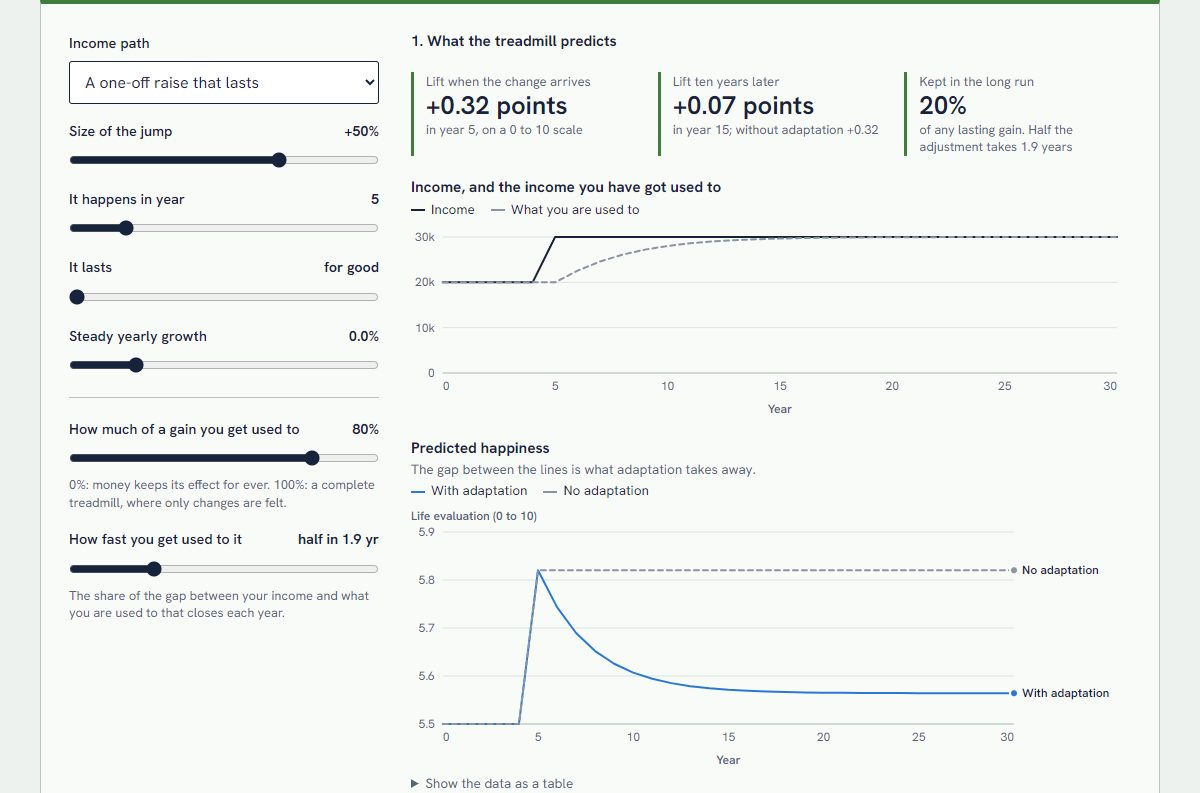
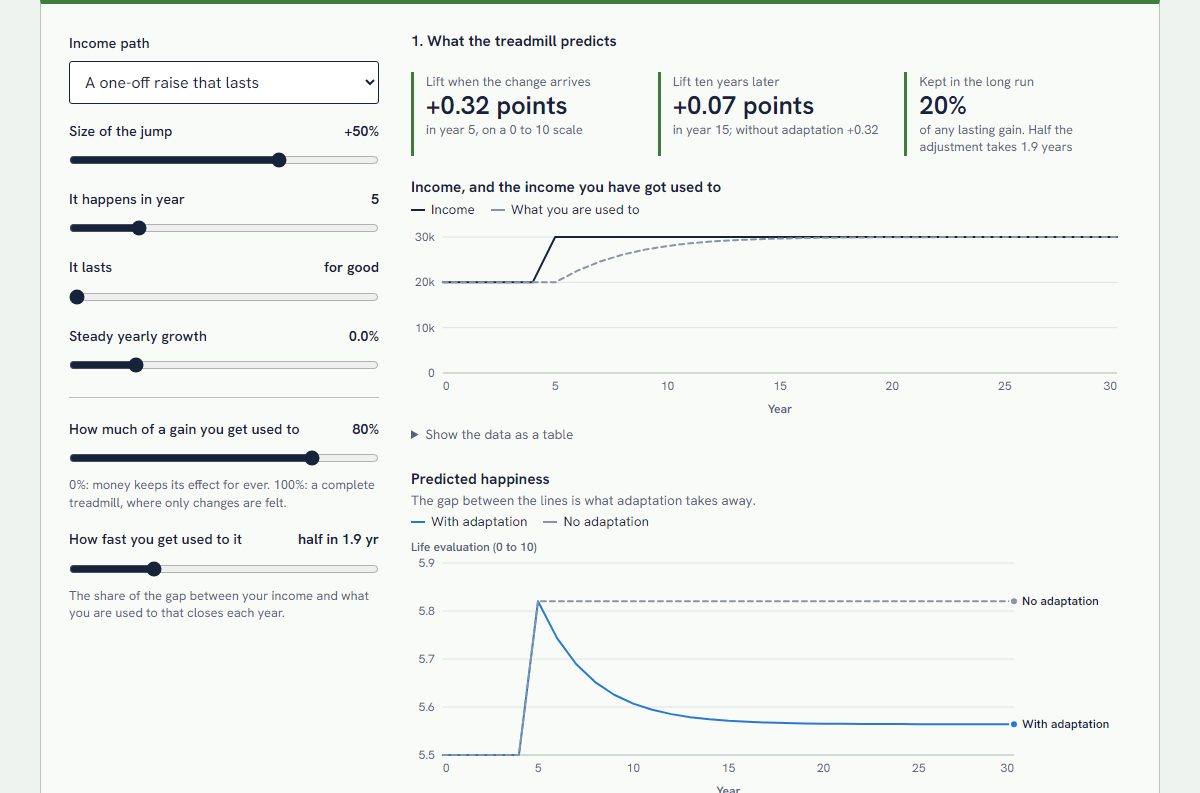
Review project 8: start at 2010-12, fix the half-life, update the finding

diff --git a/365projects/8/index.html b/365projects/8/index.html
@@ -4,7 +4,7 @@
   <meta charset="utf-8">
   <meta name="viewport" content="width=device-width, initial-scale=1">
   <title>Hedonic Treadmill Simulator · 365 projects</title>
-  <meta name="description" content="Set an income path and a rate of adaptation, see what the hedonic treadmill predicts for happiness over time, and test it against fifteen years of survey data from 145 countries.">
+  <meta name="description" content="Set an income path and a rate of adaptation, see what the hedonic treadmill predicts for happiness over time, and test it against survey data from 146 countries for 2010 to 2025.">
   <link rel="preload" href="../../assets/fonts/literata.woff2" as="font" type="font/woff2" crossorigin>
   <link rel="preload" href="../../assets/fonts/hanken-grotesk.woff2" as="font" type="font/woff2" crossorigin>
   <link rel="icon" href="../../assets/favicon.svg" type="image/svg+xml">
@@ -27,13 +27,13 @@
 
     <section class="p-sec finding">
       <h2>One finding</h2>
-      <p>Across 138 countries, those whose income per person doubled between 2009-11 and 2023-25 gained about one point more on the 0 to 10 ladder than those whose income stood still (1.04, plus or minus 0.30). That is almost twice the gap between rich and poor countries at a single moment (0.55 per doubling). At the level of whole countries this panel shows no treadmill, although India, Ireland and the United States each got richer and less satisfied.</p>
+      <p>Across 139 countries, those whose income per person doubled between 2010-12 and 2023-25 gained about one point more on the 0 to 10 ladder than those whose income stood still (1.04, plus or minus 0.31). That is almost twice the gap between rich and poor countries at a single moment (0.55 per doubling). At the level of whole countries this panel shows no treadmill, although India and the United States each got richer and less satisfied.</p>
     </section>
 
     <section class="p-sec">
       <h2>The idea</h2>
       <p>In 1971 Philip Brickman and Donald Campbell proposed that people judge their circumstances against what they are used to, so that any improvement soon becomes the new baseline and stops giving pleasure. They called it the <strong>hedonic treadmill</strong>: you have to keep moving to stay where you are. A later study by Brickman and colleagues, comparing lottery winners with people who had been paralysed in accidents, became the standard illustration.</p>
-      <p>Richard Easterlin gave the idea its economic edge in 1974. Within a country, richer people report being happier. Yet he found that as whole countries grew richer over decades, average happiness hardly moved. Adaptation is one explanation; another is that people care about their income relative to those around them, which growth cannot improve for everyone at once.</p>
+      <p>Richard Easterlin gave the idea its economic edge in 1974. Within a country, richer people report being happier. Yet he found that in the United States average happiness did not trend upward between 1946 and 1970 although incomes grew, and later studies reported the same of other rich countries. Adaptation is one explanation; another is that people care about their income relative to those around them, which growth cannot improve for everyone at once.</p>
       <p>The stakes are large. If adaptation to income is complete, economic growth does not make a rich society any happier, and policy should aim at things people do not get used to. If it is partial or absent, growth still matters. Betsey Stevenson and Justin Wolfers argued in 2008 that the paradox disappears with better data. The disagreement is empirical, which is why this page puts a model and the data side by side.</p>
     </section>
 
@@ -46,13 +46,13 @@
       <p class="eq"><var>H</var><sub><var>t</var></sub> = <var>H</var><sub>0</sub> + <var>b</var> · [ (<var>y</var><sub><var>t</var></sub> − <var>y</var><sub>0</sub>) − <var>k</var> · (<var>r</var><sub><var>t</var></sub> − <var>r</var><sub>0</sub>) ]</p>
       <p>The two sliders are <var>k</var> and <var>α</var>. With <var>k</var> = 0 the reference level does not matter and a raise keeps its full effect. With <var>k</var> = 1 only the gap between income and the reference level counts, so a one-off raise of size <var>Δ</var> (in logs) gives a lift that decays to nothing:</p>
       <p class="eq">lift after <var>n</var> years = <var>b</var> · <var>Δ</var> · [ 1 − <var>k</var> · (1 − (1 − <var>α</var>)<sup><var>n</var></sup>) ]</p>
-      <p>The long-run share kept is 1 − <var>k</var>, and half of the adjustment has happened after ln(0.5) / ln(1 − <var>α</var>) years. Under steady growth of <var>g</var> a year with <var>k</var> = 1, happiness settles at a constant <var>b</var> · <var>g</var> / <var>α</var> above its starting level and stays there only as long as growth continues. That is the treadmill.</p>
+      <p>The long-run share kept is 1 − <var>k</var>, and half of the adjustment has happened after ln(0.5) / ln(1 − <var>α</var>) years (with <var>α</var> = 1 all of it happens within a year). Under steady growth of <var>g</var> a year with <var>k</var> = 1, happiness settles at a constant <var>b</var> · <var>g</var> / <var>α</var> above its starting level and stays there only as long as growth continues. That is the treadmill.</p>
       <h3>Where <var>b</var> comes from</h3>
       <p>The effect of income before any adaptation is set from the data: across 144 countries in 2023-25, a doubling of income per person goes with 0.55 more points of life evaluation (<var>b</var> = 0.79 per unit of log income). Using the gap between rich and poor countries as the long-run effect of income is an assumption, not a finding.</p>
       <h3>Testing a country</h3>
-      <p>For the chosen country the model is given its actual GDP per person for each survey period and predicts life evaluation with your settings. The starting level <var>H</var><sub>0</sub> is set so the prediction is right on average, and the page reports the typical miss (root mean squared error). "Find the best-fitting settings" tries 420 combinations of <var>k</var> and <var>α</var> and picks the one with the smallest miss. It also reports what share of all the combinations come within a tenth of the best, because a best fit that hundreds of other settings nearly match tells you very little.</p>
+      <p>A survey period is three years of polling, labelled on the charts by its last year, and income is averaged over the same three years. For the chosen country the model is given its actual GDP per person for each survey period from 2010-12 on and predicts life evaluation with your settings. The starting level <var>H</var><sub>0</sub> is set so the prediction is right on average, and the page reports the typical miss (root mean squared error). "Find the best-fitting settings" tries 420 combinations of <var>k</var> and <var>α</var> and picks the one with the smallest miss. It also reports what share of all the combinations come within a tenth of the best, because a best fit that hundreds of other settings nearly match tells you very little.</p>
       <h3>Testing all countries</h3>
-      <p>For every country observed at both ends of the period, the last chart plots the change in life evaluation against the change in income, measured in doublings. A complete treadmill at national level predicts a flat line: growing faster should not help. The fitted slope is ordinary least squares, with a 95% interval of 1.96 standard errors.</p>
+      <p>For every country observed at both ends of the period, the last chart plots the change in life evaluation against the change in income, measured in doublings. A complete treadmill at national level predicts a flat line: growing faster should not help. In the model above that holds exactly when each country was already growing at the same pace before the period began. If growth only started then, the predicted slope rises as adaptation gets slower, up to 0.55 points per doubling with no adaptation at all. The fitted slope is ordinary least squares, with a 95% interval of 1.96 standard errors.</p>
     </section>
 
     <section class="p-sec">
@@ -60,9 +60,9 @@
       <ul>
         <li><strong>Whether individuals adapt.</strong> Adaptation is something that happens to a person. This data is national averages, which can rise or fall for reasons that have nothing to do with anyone getting used to anything. Testing the idea properly needs the same people followed for years, and those panels are not openly available.</li>
         <li><strong>Why happiness fails to rise when it does.</strong> Rising expectations, comparison with neighbours and a plain absence of any effect all draw the same curve here. The model cannot separate them.</li>
-        <li><strong>The adaptation rate of any country.</strong> Fourteen overlapping three-year averages, each uncertain by about a tenth of a point, cannot pin down two parameters. For many countries a flat line fits as well as any setting, and the page says so when that happens.</li>
+        <li><strong>The adaptation rate of any country.</strong> Thirteen overlapping three-year averages, each uncertain by about a tenth of a point, cannot pin down two parameters. For many countries a flat line fits as well as any setting, and the page says so when that happens.</li>
         <li><strong>That growth causes satisfaction.</strong> The cross-country result is a correlation over one period that included a pandemic. Countries that grew fast differ from the others in many ways.</li>
-        <li><strong>Anything about losses.</strong> The model treats a fall in income as a raise in reverse. There is evidence that people adapt more slowly and less completely to losses, and to events like unemployment, than to gains.</li>
+        <li><strong>Anything about losses.</strong> The model treats a fall in income as a raise in reverse. Studies that follow the same people do not find that every bad event wears off in that way: Clark and colleagues (2008) found no adaptation to unemployment among men.</li>
         <li><strong>What people actually take home.</strong> Income here is GDP per person, which can grow without household incomes following.</li>
       </ul>
     </section>
@@ -81,13 +81,14 @@
     <section class="p-sec">
       <h2>Data and sources</h2>
       <ul class="refs">
-        <li>Helliwell, J. F., Layard, R., Sachs, J. D., De Neve, J.-E., Aknin, L. B., and Wang, S. (eds.) (2026). <em>World Happiness Report 2026</em>. University of Oxford: Wellbeing Research Centre. Data for Figure 2.1.</li>
+        <li>Helliwell, J. F., Layard, R., Sachs, J. D., De Neve, J.-E., Aknin, L. B., and Wang, S. (eds.) (2026). <em>World Happiness Report 2026</em>. University of Oxford: Wellbeing Research Centre. Data for Figure 2.1: three-year averages of the Gallup World Poll's ladder question, with 95% intervals from the 2017-19 average on. The file's earliest point comes from the first report, which pooled surveys from 2005 to mid-2011 and not three years, so this page leaves it out and starts with 2010-12.</li>
         <li>World Bank, World Development Indicators: GDP per capita, PPP, constant 2021 international $ (NY.GDP.PCAP.PP.KD). CC BY 4.0. Retrieved 10 October 2026.</li>
-        <li>Brickman, P., and Campbell, D. T. (1971). Hedonic relativism and planning the good society. In M. H. Appley (ed.), <em>Adaptation-Level Theory</em>. Academic Press.</li>
+        <li>Brickman, P., and Campbell, D. T. (1971). Hedonic relativism and planning the good society. In M. H. Appley (ed.), <em>Adaptation-Level Theory: A Symposium</em>, 287-302. Academic Press.</li>
         <li>Brickman, P., Coates, D., and Janoff-Bulman, R. (1978). Lottery winners and accident victims: is happiness relative? <em>Journal of Personality and Social Psychology</em>, 36(8), 917-927.</li>
-        <li>Easterlin, R. A. (1974). Does economic growth improve the human lot? In <em>Nations and Households in Economic Growth</em>. Academic Press.</li>
-        <li>Stevenson, B., and Wolfers, J. (2008). Economic growth and subjective well-being: reassessing the Easterlin paradox. <em>Brookings Papers on Economic Activity</em>.</li>
-        <li>Clark, A. E., Frijters, P., and Shields, M. A. (2008). Relative income, happiness, and utility. <em>Journal of Economic Literature</em>, 46(1), 95-144.</li>
+        <li>Easterlin, R. A. (1974). Does economic growth improve the human lot? Some empirical evidence. In P. A. David and M. W. Reder (eds.), <em>Nations and Households in Economic Growth</em>, 89-125. Academic Press.</li>
+        <li>Stevenson, B., and Wolfers, J. (2008). Economic growth and subjective well-being: reassessing the Easterlin paradox. <em>Brookings Papers on Economic Activity</em>, 2008(1), 1-87.</li>
+        <li>Clark, A. E., Frijters, P., and Shields, M. A. (2008). Relative income, happiness, and utility: an explanation for the Easterlin paradox and other puzzles. <em>Journal of Economic Literature</em>, 46(1), 95-144.</li>
+        <li>Clark, A. E., Diener, E., Georgellis, Y., and Lucas, R. E. (2008). Lags and leads in life satisfaction: a test of the baseline hypothesis. <em>The Economic Journal</em>, 118(529), F222-F243.</li>
       </ul>
     </section>
   </main>

diff --git a/365projects/8/app.js b/365projects/8/app.js
@@ -1,7 +1,7 @@
 // Day 8: Hedonic Treadmill Simulator. Interface.
 import { $, el, fmt, mount, slider, select, button, stat, note, chart, stats } from "../kit/kit.js";
 import { WELLBEING } from "../data/wellbeing.js";
-import { incomePath, simulate, halfLife, countrySeries, countriesWithSeries, crossSection, predict, fitCountry, changes } from "./logic.js";
+import { FIRST_YEAR, incomePath, simulate, halfLife, countrySeries, countriesWithSeries, crossSection, predict, fitCountry, changes } from "./logic.js";
 
 mount();
 
@@ -13,6 +13,11 @@ const GREY = "#8a94a3";
 const INK = "#16233b";
 const year = (v) => String(Math.round(v));
 const money = (v) => `$${fmt.int(v)}`;
+// How quickly the reference level catches up, in words. With alpha = 1 the whole gap closes in one step.
+const speed = (alpha) => (alpha >= 1 ? "all within a year" : `half in ${fmt.num(halfLife(alpha), 1)} yr`);
+// Results sit in live regions, so they are only rewritten when they change: otherwise every slider would re-announce all of them.
+const setStat = (s, value, text) => { if (s.el.textContent !== s.el.firstChild.textContent + value + text) s.set(value, text); };
+const setNote = (box, node) => { if (box.textContent !== node.textContent) box.replaceChildren(node); };
 
 const PATHS = {
   raise: { label: "A one-off raise that lasts", change: 50, changeYear: 5, lasts: 0, growth: 0 },
@@ -21,7 +26,7 @@ const PATHS = {
   cut: { label: "A pay cut that lasts", change: -30, changeYear: 5, lasts: 0, growth: 0 },
   stall: { label: "Growth, then a lasting fall", change: -25, changeYear: 15, lasts: 0, growth: 4 },
 };
-const state = { path: "raise", change: 50, changeYear: 5, lasts: 0, growth: 0, alpha: 0.3, k: 0.8, country: "India", from: 2011 };
+const state = { path: "raise", change: 50, changeYear: 5, lasts: 0, growth: 0, alpha: 0.3, k: 0.8, country: "India", from: FIRST_YEAR };
 
 /* ---------- controls ---------- */
 const pathSelect = select({
@@ -34,7 +39,7 @@ const pathSelect = select({
   },
 });
 const changeSlider = slider({ label: "Size of the jump", min: -60, max: 100, step: 5, value: 50, format: (v) => `${fmt.signed(v, 0)}%`, onInput: (v) => { state.change = v; update(); } });
-const yearSlider = slider({ label: "It happens in year", min: 1, max: 25, step: 1, value: 5, format: fmt.int, onInput: (v) => { state.changeYear = v; update(); } });
+const yearSlider = slider({ label: "It happens in year", min: 1, max: 20, step: 1, value: 5, format: fmt.int, onInput: (v) => { state.changeYear = v; update(); } });
 const lastsSlider = slider({ label: "It lasts", min: 0, max: 15, step: 1, value: 0, format: (v) => (v === 0 ? "for good" : `${v} year${v === 1 ? "" : "s"}`), onInput: (v) => { state.lasts = v; update(); } });
 const growthSlider = slider({ label: "Steady yearly growth", min: -2, max: 8, step: 0.5, value: 0, format: (v) => `${fmt.signed(v, 1)}%`, onInput: (v) => { state.growth = v; update(); } });
 const kSlider = slider({
@@ -44,14 +49,14 @@ const kSlider = slider({
 });
 const alphaSlider = slider({
   label: "How fast you get used to it", min: 0.05, max: 1, step: 0.05, value: 0.3,
-  format: (v) => `half in ${fmt.num(halfLife(v), 1)} yr`,
+  format: speed,
   hint: "The share of the gap between your income and what you are used to that closes each year.",
   onInput: (v) => { state.alpha = v; update(); },
 });
 const countrySelect = select({ label: "Country to test against", value: state.country, options: names, onChange: (v) => { state.country = v; update(); } });
 const fromSelect = select({
-  label: "Compare all countries since", value: "2011",
-  options: [2011, 2015, 2019].map((y) => ({ value: y, label: `${y - 2} to ${y}` })),
+  label: "Compare all countries since", value: FIRST_YEAR,
+  options: [FIRST_YEAR, 2015, 2019].map((y) => ({ value: y, label: `${y - 2} to ${y}` })),
   onChange: (v) => { state.from = Number(v); update(); },
 });
 
@@ -61,19 +66,21 @@ const sLater = stat("Lift ten years later");
 const sKept = stat("Kept in the long run");
 const incomeBox = el("div");
 const happyBox = el("div");
-const fitNote = el("div");
+const fitNote = el("div", { role: "status" });
 const countryBox = el("div");
-const panelNote = el("div");
+const panelNote = el("div", { role: "status" });
 const panelBox = el("div");
-const incomeChart = chart(incomeBox, { series: [], height: 190, table: false });
+const incomeChart = chart(incomeBox, { series: [], height: 190 });
 const happyChart = chart(happyBox, { series: [], height: 260 });
 const countryChart = chart(countryBox, { series: [], height: 300 });
 const panelChart = chart(panelBox, { series: [], height: 340 });
 
 const fitButton = button("Find the best-fitting settings", () => {
   const f = fitCountry(countrySeries(WELLBEING, state.country), B);
-  state.k = f.k; state.alpha = f.alpha;
-  kSlider.value = Math.round(f.k * 100); alphaSlider.value = f.alpha;
+  state.k = f.k;
+  kSlider.value = Math.round(f.k * 100);
+  // With no adaptation the speed has no effect on the fit, so the slider is left where it was.
+  if (f.k > 0) { state.alpha = f.alpha; alphaSlider.value = f.alpha; }
   update();
 });
 
@@ -85,7 +92,7 @@ $("#app").append(
       kSlider.el, alphaSlider.el),
     el("div", { class: "out" },
       el("h2", { text: "1. What the treadmill predicts" }),
-      el("div", { class: "stats" }, sFirst.el, sLater.el, sKept.el),
+      el("div", { class: "stats", role: "status" }, sFirst.el, sLater.el, sKept.el),
       incomeBox, happyBox)),
   el("div", { class: "out block2" },
     el("h2", { text: "2. Test your settings on a real country" }),
@@ -106,10 +113,13 @@ function update() {
   const before = sim.happiness[t0 - 1];
   const later = Math.min(30, t0 + 10);
   const hasJump = state.change !== 0;
-  sFirst.set(hasJump ? `${fmt.signed(sim.happiness[t0] - before, 2)} points` : "–", hasJump ? `in year ${t0}, on a 0 to 10 scale` : "no jump in this path");
-  sLater.set(hasJump ? `${fmt.signed(sim.happiness[later] - before, 2)} points` : `${fmt.signed(sim.happiness[30] - sim.happiness[0], 2)} points`,
-    hasJump ? `in year ${later}; without adaptation ${fmt.signed(sim.noAdaptation[later] - sim.noAdaptation[t0 - 1], 2)}` : `after 30 years of growth; without adaptation ${fmt.signed(sim.noAdaptation[30] - 5.5, 2)}`);
-  sKept.set(fmt.pct(1 - state.k, 0), `of any lasting gain. Half the adjustment takes ${fmt.num(halfLife(state.alpha), 1)} years`);
+  const trend = state.growth > 0 ? "30 years of growth" : state.growth < 0 ? "30 years of decline" : "30 years of flat income";
+  const laterLabel = hasJump ? "Lift ten years later" : "Lift after 30 years";
+  if (sLater.el.firstChild.textContent !== laterLabel) sLater.el.firstChild.textContent = laterLabel;
+  setStat(sFirst, hasJump ? `${fmt.signed(sim.happiness[t0] - before, 2)} points` : "–", hasJump ? `in year ${t0}, on a 0 to 10 scale` : "no jump in this path");
+  setStat(sLater, hasJump ? `${fmt.signed(sim.happiness[later] - before, 2)} points` : `${fmt.signed(sim.happiness[30] - sim.happiness[0], 2)} points`,
+    hasJump ? `in year ${later}; without adaptation ${fmt.signed(sim.noAdaptation[later] - sim.noAdaptation[t0 - 1], 2)}` : `after ${trend}; without adaptation ${fmt.signed(sim.noAdaptation[30] - 5.5, 2)}`);
+  setStat(sKept, fmt.pct(1 - state.k, 0), `of any lasting gain. ${state.alpha >= 1 ? "All of the adjustment happens within a year" : `Half the adjustment takes ${fmt.num(halfLife(state.alpha), 1)} years`}`);
 
   incomeChart.update({
     title: "Income, and the income you have got used to",
@@ -137,7 +147,7 @@ function update() {
   const best = fitCountry(series, B);
   countryChart.update({
     title: `${state.country}: reported life evaluation and the model`,
-    subtitle: `Income per person went from ${money(series[0].gdp)} to ${money(series.at(-1).gdp)}. Years are the last of each three-year survey average.`,
+    subtitle: `Income per person went from ${money(series[0].gdp)} to ${money(series.at(-1).gdp)}. Years are the last of each three-year survey average; the source has none ending in 2013.`,
     x: { label: "Year", format: year },
     y: { label: "Life evaluation (0 to 10)", format: (v) => fmt.num(v, 1) },
     series: [
@@ -148,12 +158,12 @@ function update() {
     ],
   });
   const beatsFlat = best.rmse < best.rmseFlat * 0.9;
-  fitNote.replaceChildren(note(beatsFlat ? "" : "warn",
+  setNote(fitNote, note(beatsFlat ? "" : "warn",
     el("strong", { text: `Typical miss with your settings: ${fmt.num(mine.rmse, 2)} points. ` }),
-    `No adaptation misses by ${fmt.num(none.rmse, 2)}, the best-fitting settings (${fmt.pct(best.k, 0)} adaptation, half in ${fmt.num(halfLife(best.alpha), 1)} years) by ${fmt.num(best.rmse, 2)}, and a flat line through the average by ${fmt.num(best.rmseFlat, 2)}. `,
+    `No adaptation misses by ${fmt.num(none.rmse, 2)}, the best-fitting settings (${best.k > 0 ? `${fmt.pct(best.k, 0)} adaptation, ${speed(best.alpha)}` : "no adaptation at all"}) by ${fmt.num(best.rmse, 2)}, and a flat line through the average by ${fmt.num(best.rmseFlat, 2)}. `,
     beatsFlat
       ? `${fmt.pct(best.nearlyAsGood, 0)} of all the settings tried fit within a tenth of the best, so the data only loosely pins them down.`
-      : `Here no setting does clearly better than a flat line: income, with or without adaptation, does not explain how ${state.country}'s life evaluation moved over these years.`));
+      : `Here no setting does clearly better than a flat line: income, with or without adaptation, does not explain how life evaluation moved over these years.`));
 
   /* ----- 3: all countries ----- */
   const ch = changes(WELLBEING, state.from, LAST);
@@ -162,8 +172,9 @@ function update() {
   const sel = ch.rows.find((r) => r.name === state.country);
   panelChart.update({
     title: `Change in income and in life evaluation, ${state.from - 2}-${state.from} to ${LAST - 2}-${LAST}`,
+    subtitle: "Income is counted in doublings: +1 across is income per person doubling, -1 is it halving.",
     hover: "point",
-    x: { label: "Change in income per person (doublings; +1 is a doubling)", format: (v) => fmt.signed(v, 1) },
+    x: { label: "Change in income (doublings)", format: (v) => fmt.signed(v, 1) },
     y: { label: "Change in life evaluation (points)", format: (v) => fmt.signed(v, 1) },
     series: [
       { name: "Fitted across countries", type: "line", data: [[lo, ch.intercept + ch.slope * lo], [hi, ch.intercept + ch.slope * hi]], color: INK, hover: false },
@@ -174,12 +185,14 @@ function update() {
     onClick: ({ point }) => { if (point && names.includes(point.label)) { state.country = point.label; countrySelect.value = point.label; update(); } },
   });
   const ci = 1.96 * ch.se;
-  panelNote.replaceChildren(note(ch.slope - ci > 0 ? "" : "warn",
-    el("strong", { text: `${fmt.signed(ch.slope, 2)} points per doubling of income (± ${fmt.num(ci, 2)}), across ${ch.n} countries. ` }),
+  setNote(panelNote, note(ch.slope - ci > 0 ? "" : "warn",
+    el("strong", { text: `${fmt.signed(ch.slope, 2)} points per doubling of income (±\u00a0${fmt.num(ci, 2)}), across ${ch.n} countries. ` }),
     ch.slope - ci > 0
-      ? `Countries that grew faster did end up more satisfied, which is not what a complete treadmill predicts. For comparison, rich and poor countries at one moment differ by ${fmt.num(cross.perDoubling, 2)} points per doubling. `
+      ? `Countries that grew faster did gain more in life evaluation, which is not what a complete treadmill predicts. For comparison, rich and poor countries at one moment differ by ${fmt.num(cross.perDoubling, 2)} points per doubling. `
       : `Over this period the link between growth and rising life evaluation is too weak to tell from zero. `,
-    `But growth explains only ${fmt.pct(ch.r2, 0)} of the differences between countries' changes${sel ? `, and ${sel.name} ${sel.dLadder >= 0 ? "gained" : "lost"} ${fmt.num(Math.abs(sel.dLadder), 2)} points while its income ${sel.dIncome >= 0 ? "rose" : "fell"} by ${fmt.pct(Math.abs(2 ** sel.dIncome - 1), 0)}` : ""}.`));
+    `${ch.slope - ci > 0 ? "But growth" : "Growth"} explains only ${fmt.pct(ch.r2, 0)} of the differences between countries' changes.`,
+    // Written as a label and not a sentence, so that it reads correctly for "United States" and "Netherlands" too.
+    sel ? ` ${sel.name}: life evaluation ${sel.dLadder >= 0 ? "up" : "down"} ${fmt.num(Math.abs(sel.dLadder), 2)} points, income ${sel.dIncome >= 0 ? "up" : "down"} ${fmt.pct(Math.abs(2 ** sel.dIncome - 1), 0)}.` : ` ${state.country} was not surveyed at both ends of this period, so it is not on the chart.`));
 }
 
 update();

diff --git a/365projects/8/logic.js b/365projects/8/logic.js
@@ -39,19 +39,29 @@ export function simulate(incomes, { alpha = 0.3, k = 1, b = 0.8, base = 5.5, tim
   };
 }
 
-/** Years for half of a gap between income and the reference level to close. Infinity when alpha is 0. */
-export const halfLife = (alpha) => (alpha <= 0 ? Infinity : alpha >= 1 ? 1 : Math.log(0.5) / Math.log(1 - alpha));
+/**
+ * Years for half of a gap between income and the reference level to close: (1 - alpha)^n = 0.5.
+ * Infinity when alpha is 0, and 0 when alpha is 1 (the whole gap closes in the first year).
+ */
+export const halfLife = (alpha) => (alpha <= 0 ? Infinity : alpha >= 1 ? 0 : Math.log(0.5) / Math.log(1 - alpha));
 
-/** A country's observed years: [{ year, gdp, ladder, lo, hi }] where both income and life evaluation exist. */
+/**
+ * The first survey period the page uses. The report's earliest point, 2011, comes from the first World
+ * Happiness Report, which pooled every survey from 2005 to mid-2011. It is not a three-year average, so the
+ * data module (scripts/data/wellbeing.py) leaves it out.
+ */
+export const FIRST_YEAR = 2012;
+
+/** A country's observed years from FIRST_YEAR on: [{ year, gdp, ladder, lo, hi }] where both income and life evaluation exist. */
 export function countrySeries(data, name) {
   const c = data.countries.find((x) => x.name === name);
   if (!c) return [];
-  return data.years.map((year, i) => ({ year, gdp: c.gdp[i], ladder: c.ladder[i], lo: c.lo[i], hi: c.hi[i] })).filter((p) => p.gdp && p.ladder != null);
+  return data.years.map((year, i) => ({ year, gdp: c.gdp[i], ladder: c.ladder[i], lo: c.lo[i], hi: c.hi[i] })).filter((p) => p.year >= FIRST_YEAR && p.gdp && p.ladder != null);
 }
 
-/** Countries with at least `min` observed years. */
+/** Countries with at least `min` observed years from FIRST_YEAR on. */
 export function countriesWithSeries(data, min = 8) {
-  return data.countries.filter((c) => c.ladder.filter((v, i) => v != null && c.gdp[i]).length >= min).map((c) => c.name).sort((a, b) => a.localeCompare(b));
+  return data.countries.filter((c) => c.ladder.filter((v, i) => data.years[i] >= FIRST_YEAR && v != null && c.gdp[i]).length >= min).map((c) => c.name).sort((a, b) => a.localeCompare(b));
 }
 
 /** Cross-country slope of life evaluation on log income in one year: { b, perDoubling, r2, n }. */

diff --git a/365projects/8/README.md b/365projects/8/README.md
@@ -7,8 +7,8 @@ Live at https://varad-patel.github.io/365projects/8/ (part of [365 projects in 3
 | | |
 |---|---|
 | Question | If people get used to higher incomes, how quickly does a raise stop making them happier, and does the pattern show up in what countries report? |
-| One finding | Across 138 countries, a doubling of income per person between 2009-11 and 2023-25 went with about one more point of life evaluation, so country averages show no treadmill over this period. |
-| Main limit | Adaptation happens to individuals, and national averages over fourteen survey periods cannot show whether any person got used to their income. |
+| One finding | Across 139 countries, a doubling of income per person between 2010-12 and 2023-25 went with about one more point of life evaluation, so country averages show no treadmill over this period. |
+| Main limit | Adaptation happens to individuals, and national averages over thirteen survey periods cannot show whether any person got used to their income. |
 | PPE concept | Hedonic adaptation |
 | Skills | Difference equations, curve fitting |
 | Data | World Happiness Report 2026, World Bank |
